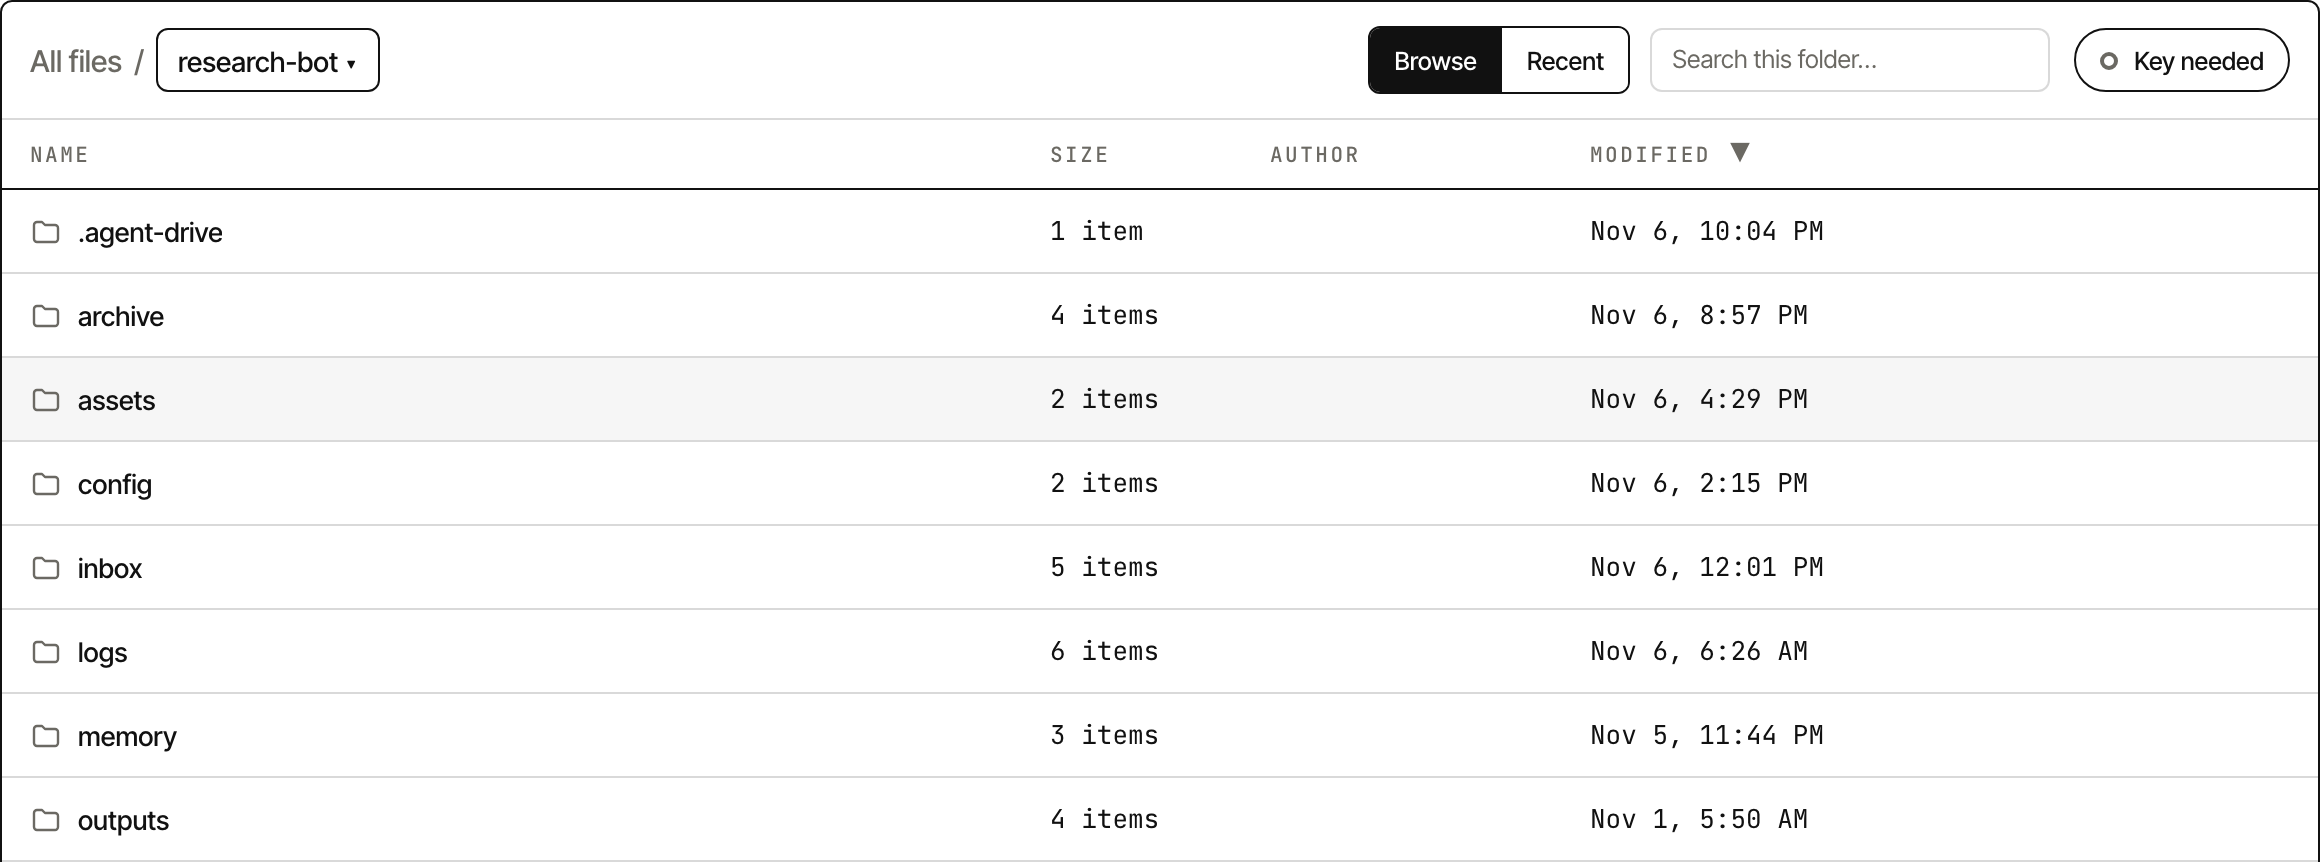
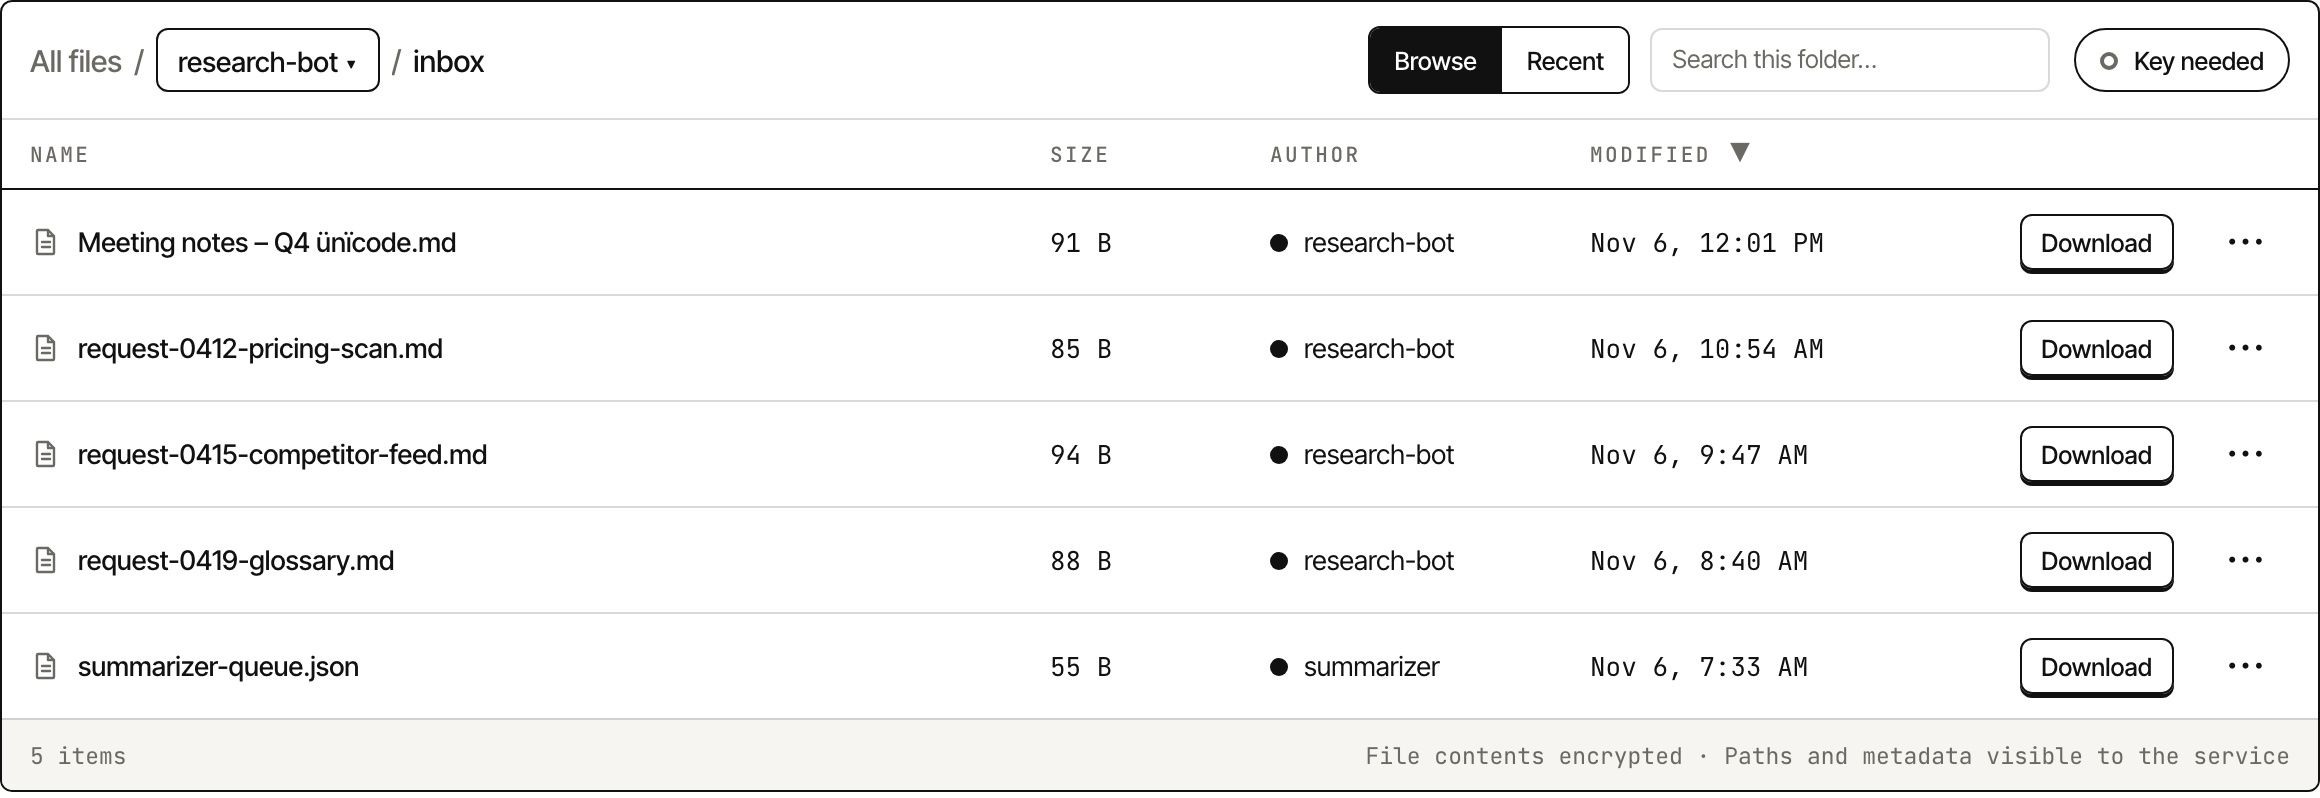
fix(web): console screenshot shows files from two agents, add phone crop
The wide screenshot now shows the inbox folder with file rows, authors
(research-bot, summarizer), Download and menu buttons. Phones get a
portrait crop through <picture>, and a test checks that source is used.

diff --git a/apps/web/app/(app)/page.tsx b/apps/web/app/(app)/page.tsx
@@ -1,4 +1,3 @@
-import Image from 'next/image';
 import Link from 'next/link';
 import { headers } from 'next/headers';
 import { SiteHeader } from '../site-header';
@@ -225,14 +224,15 @@ export default async function Home() {
             browser.
           </p>
           <figure className="l-shot">
-            <Image
-              src="/console-files.png"
-              width={2320}
-              height={862}
-              sizes="(max-width: 1160px) 100vw, 1096px"
-              alt="The Agent Drive console file browser for a drive named research-bot. A folder list sorted by modified date shows archive, assets, config, inbox, logs, memory and outputs, with a Browse and Recent switch, a search box and a Key needed button."
-              unoptimized
-            />
+            <picture>
+              <source media="(max-width: 760px)" srcSet="/console-files-phone.png" />
+              <img
+                src="/console-files.png"
+                width={2320}
+                height={798}
+                alt="The Agent Drive console file browser for the research-bot drive. The inbox folder lists five files with their size, author (research-bot and summarizer), modified date and a Download button, with a Browse and Recent switch, a search box and a Key needed button."
+              />
+            </picture>
           </figure>
         </div>
       </section>

diff --git a/tests/e2e/landing.spec.ts b/tests/e2e/landing.spec.ts
@@ -78,6 +78,23 @@ test.describe('landing page', () => {
     );
   });
 
+  test('phones get the portrait console screenshot', async ({ page }) => {
+    await page.setViewportSize({ width: 390, height: 844 });
+    await page.goto('/');
+    const img = page.locator('#console img');
+    await img.scrollIntoViewIfNeeded();
+    await expect
+      .poll(() => img.evaluate((i: HTMLImageElement) => i.complete && i.naturalWidth > 0))
+      .toBe(true);
+    const m = await img.evaluate((i: HTMLImageElement) => ({
+      w: i.getBoundingClientRect().width,
+      nw: i.naturalWidth,
+      nh: i.naturalHeight,
+    }));
+    expect(m.w).toBeGreaterThanOrEqual(300);
+    expect(m.nh).toBeGreaterThan(m.nw);
+  });
+
   test('has Open Graph and Twitter metadata', async ({ page }) => {
     await page.goto('/');
     await expect(page).toHaveTitle(

diff --git a/apps/web/app/styles/landing.css b/apps/web/app/styles/landing.css
@@ -846,6 +846,7 @@
   max-width: 1096px;
 }
 .l-shot img {
+  height: auto;
   display: block;
   width: 100%;
   height: auto;
